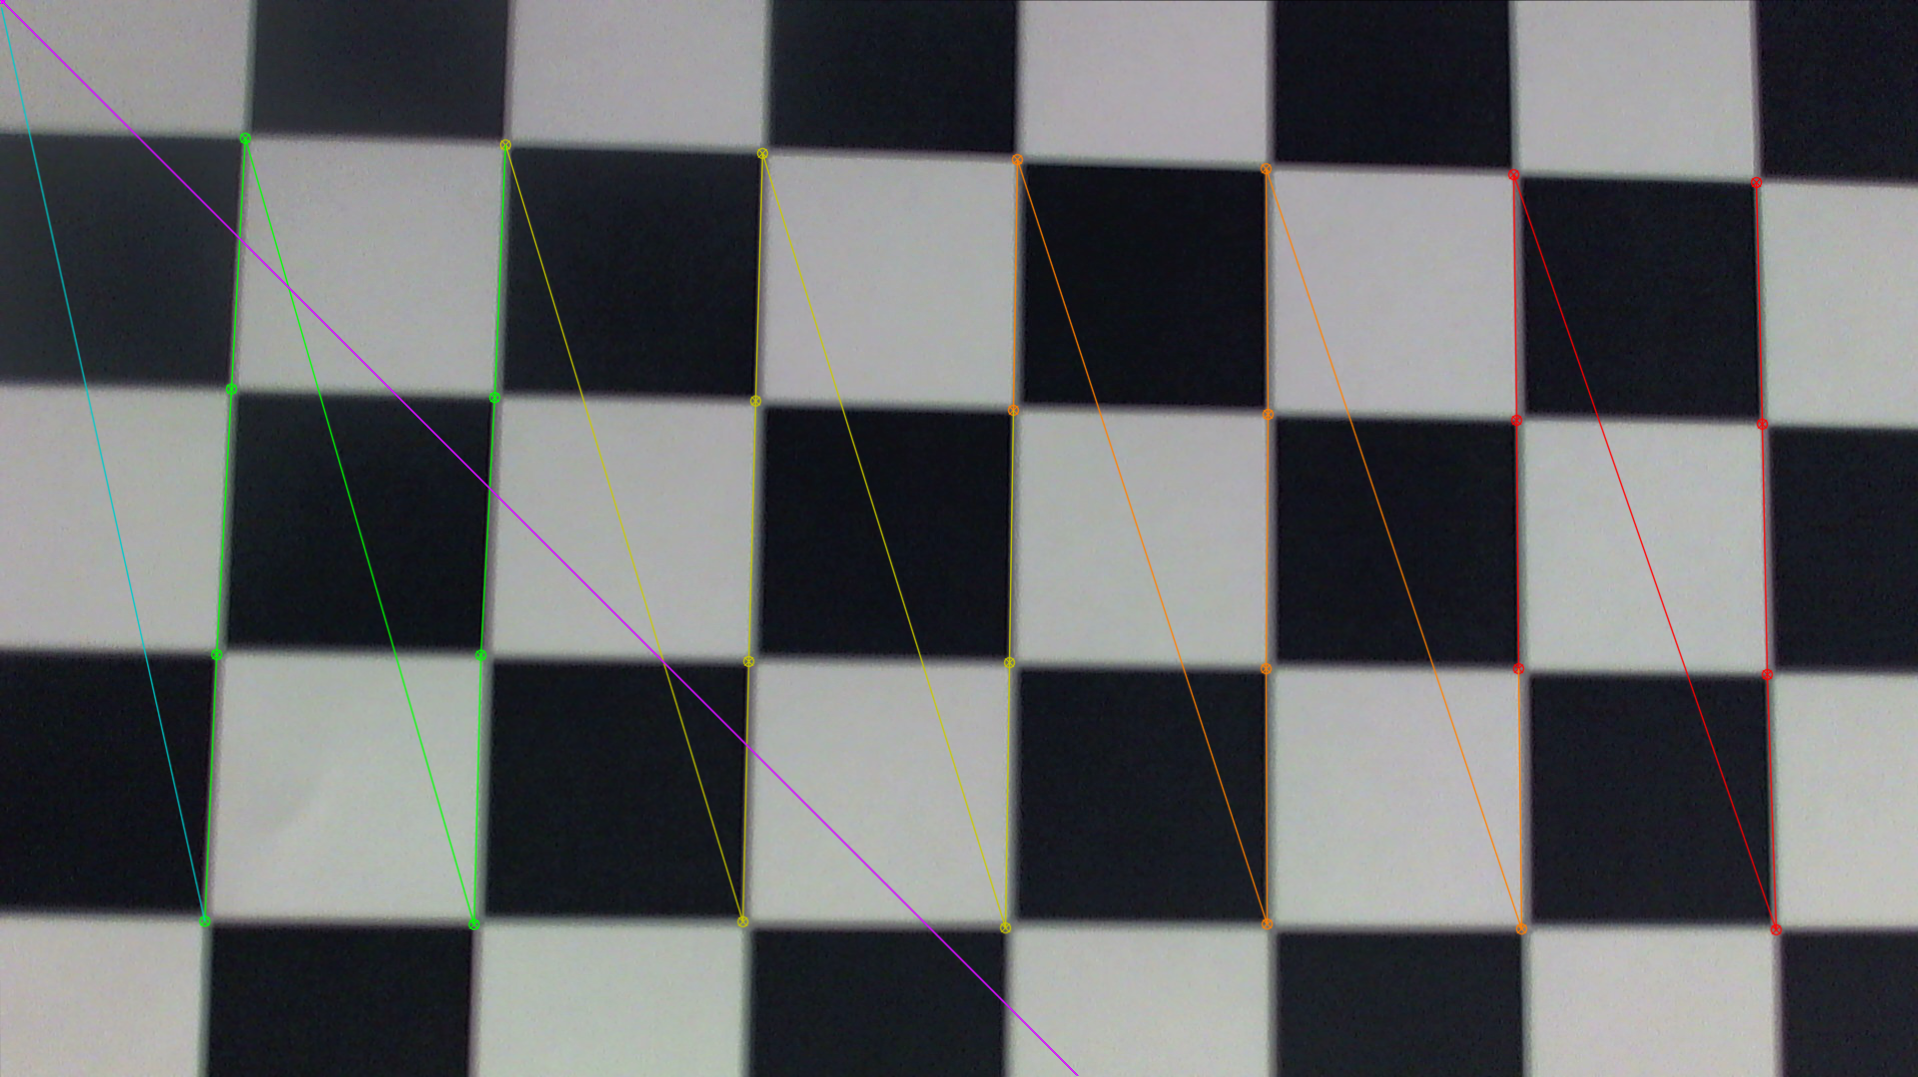
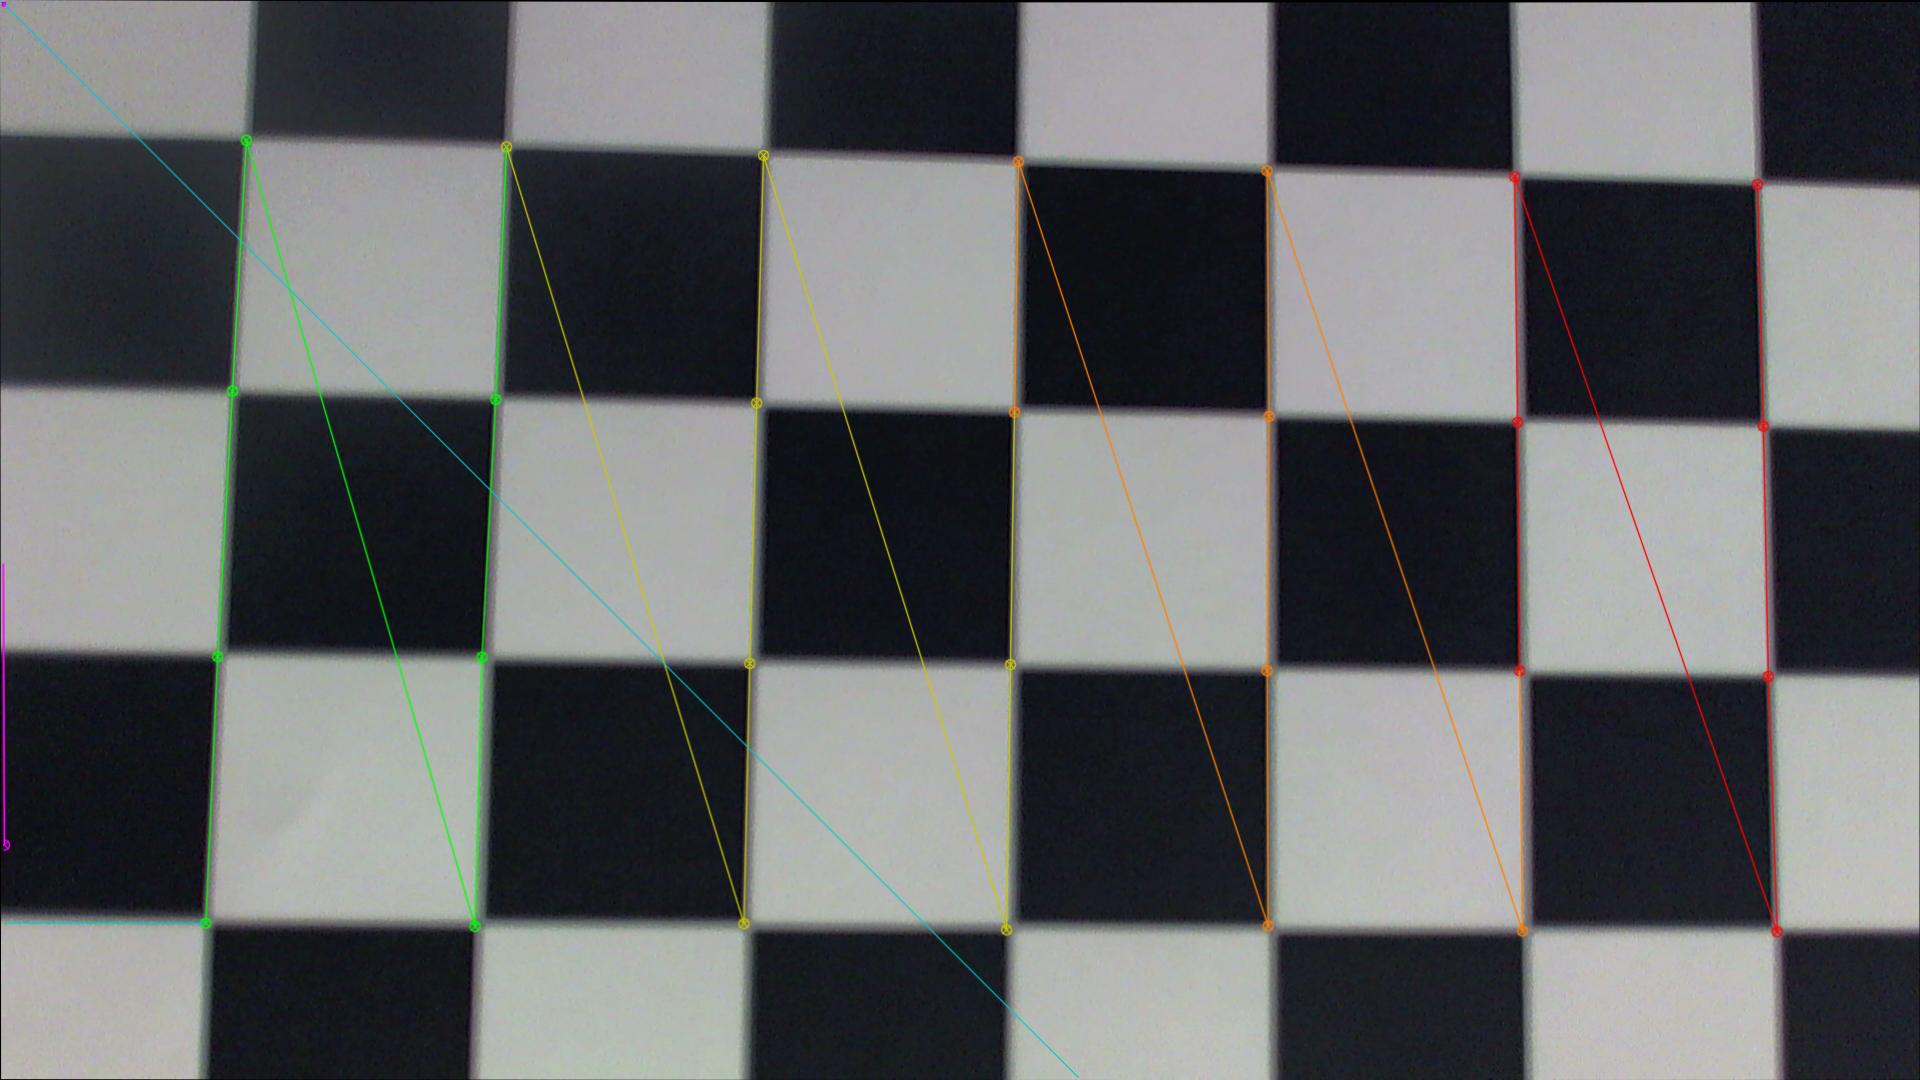
made undistort less jank

diff --git a/python-vision/undistort.py b/python-vision/undistort.py
@@ -40,25 +40,23 @@ def undistort(cbrow=sys.argv[1], cbcol=sys.argv[2], fileName=sys.argv[3]): # num
         cv2.waitKey(500)
 
     ret, mtx, dist, rvecs, tvecs = cv2.calibrateCamera(objpoints, imgpoints, gray.shape[::-1],None,None)
-    dist = np.array([-0.13615181, 0.53005398, 0, 0, 0]) # no translation
-    h,  w = img.shape[:2]
+    dist = normalize(np.array([dist[0][i] if i < 2 else 0.0 for i in range(len(dist[0]))]))
+    #dist = np.array([-0.13615181, 0.53005398, 0, 0, 0]) # no translation 
     newcameramtx, roi=cv2.getOptimalNewCameraMatrix(mtx,dist,(w,h),1,(w,h))
 
-    # # undistort
-    # dst = cv2.undistort(img, mtx, dist, None, newcameramtx)
-
-    # # crop the image
-    # x,y,w,h = roi
-    # dst = dst[y:y+h, x:x+w]
-    # cv2.imwrite('calibresult.png',dst)
-    # undistort
     mapx,mapy = cv2.initUndistortRectifyMap(mtx,dist,None,newcameramtx,(w,h),5)
     dst = cv2.remap(img,mapx,mapy,cv2.INTER_LINEAR)
-    print(dst)
 
     # crop the image
     x,y,w,h = roi
     dst = dst[y:y+h, x:x+w]
-    cv2.imwrite('calibresult.png',dst)
+    cv2.imwrite('calibresult2.png',dst)
+    print('done')
+
+def normalize(v):
+    norm = np.linalg.norm(v)
+    if norm == 0: 
+       return v
+    return v / norm
 
 undistort()
